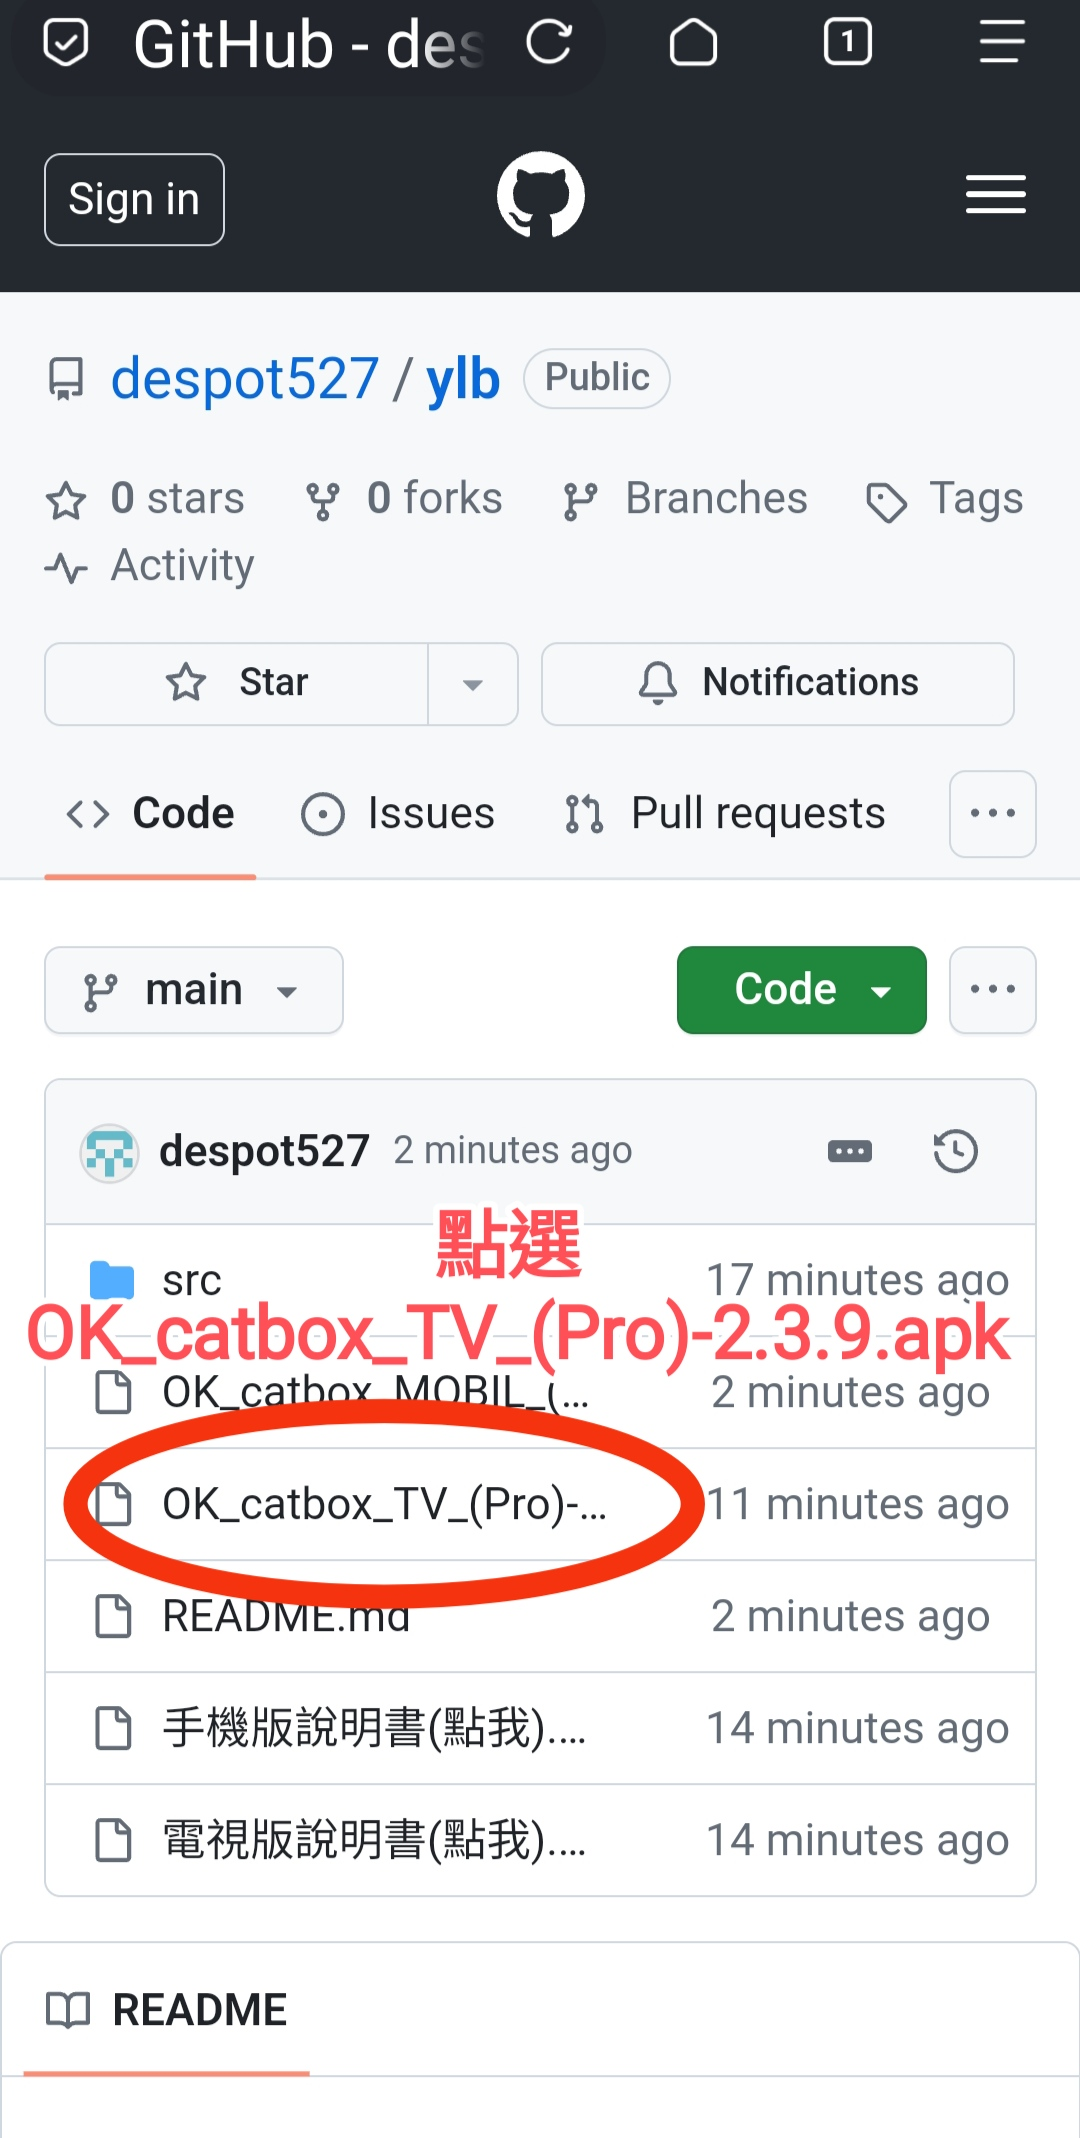
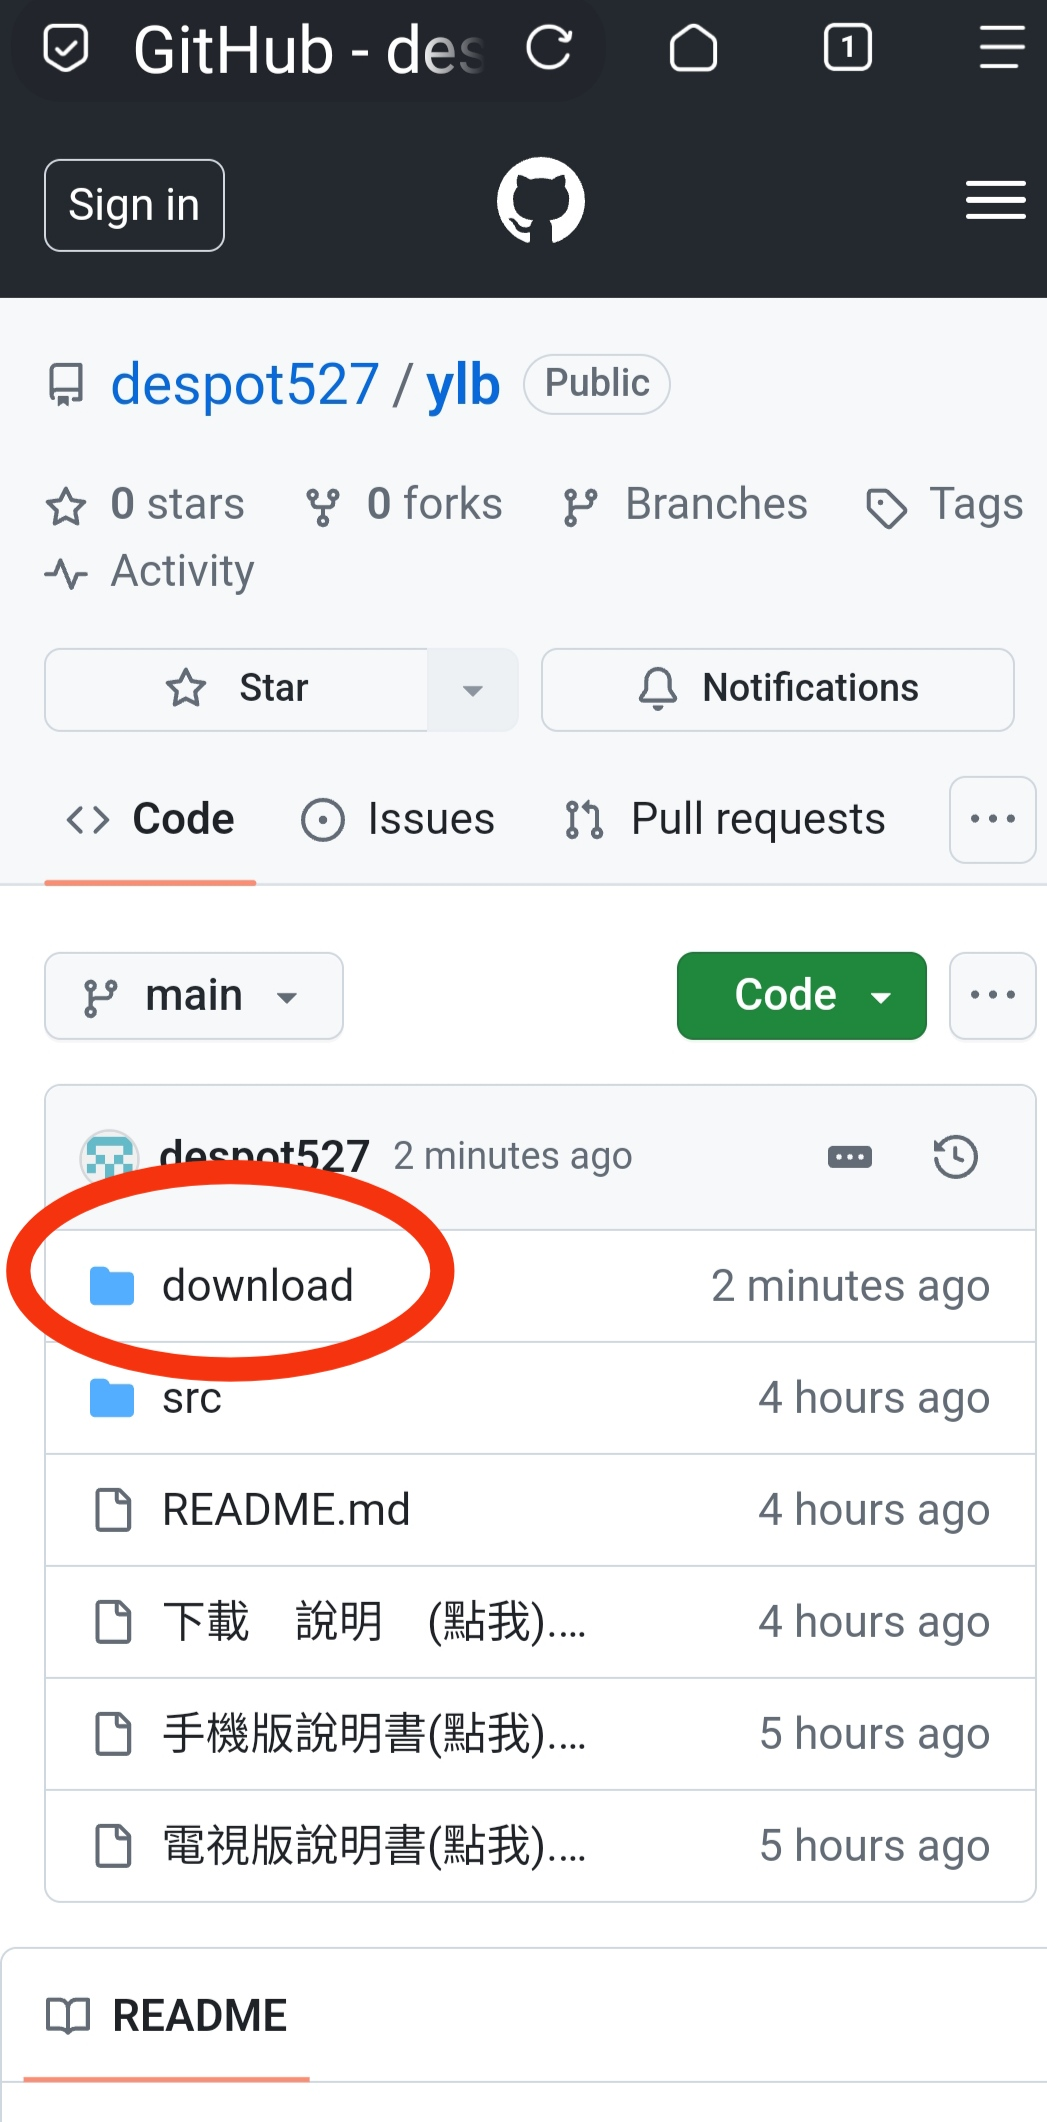
up

diff --git a/下載　說明　(點我).md b/下載　說明　(點我).md
@@ -1,5 +1,5 @@
 
-二個步驟
+三個步驟
 
 1.
 ![image](https://raw.githubusercontent.com/despot527/ylb/main/src/DL1.jpg)
@@ -7,3 +7,5 @@
 2.
 ![image](https://raw.githubusercontent.com/despot527/ylb/main/src/DL2.jpg)
 
+3.
+![image](https://raw.githubusercontent.com/despot527/ylb/main/src/DL3.jpg)
